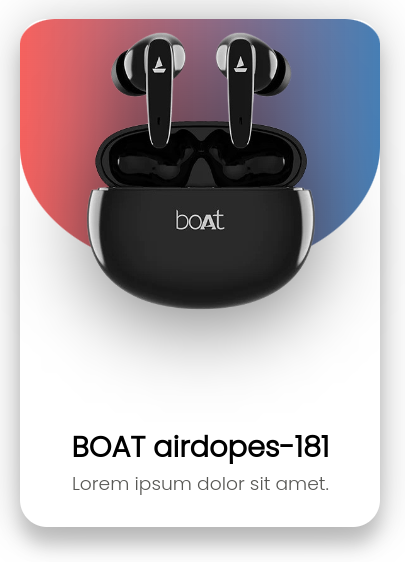
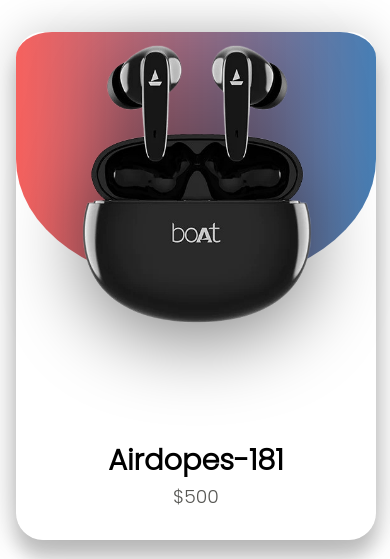
final

Changed region(s): [[0.0308, 0.0304, 0.9846, 1.0]]

diff --git a/index.html b/index.html
@@ -4,8 +4,8 @@
     <meta charset="UTF-8" />
     <meta http-equiv="X-UA-Compatible" content="IE=edge" />
     <meta name="viewport" content="width=device-width, initial-scale=1.0" />
+    <meta name="description" content="3-d card effect using plain vanilla js and tilt js">
     <link rel="stylesheet" href="style.css" />
-    <!-- <link rel="stylesheet" href="modal.css"> -->
     <link
       rel="stylesheet"
       href="https://cdnjs.cloudflare.com/ajax/libs/font-awesome/4.7.0/css/font-awesome.min.css"
@@ -14,7 +14,7 @@
     <script src="effect.js" defer></script>
     <script src="vanilla-tilt.js" defer></script>
 
-    <title>tutwebsite</title>
+    <title>card-list</title>
     <link
       rel="stylesheet"
       href="https://cdnjs.cloudflare.com/ajax/libs/font-awesome/4.7.0/css/font-awesome.min.css"
@@ -33,7 +33,7 @@
         class="image interactable"
         data-type="link"
         src="images/1.png"
-        onclick="openModal('images/airdopes-181-removebg.png')"
+        onclick="openModal('images/airdopes-181-removebg.png','Airdopes-181','$500')"
         alt="img"
         draggable="false"
         data-tilt
@@ -46,7 +46,7 @@
         class="image interactable"
         data-type="video"
         src="images/2.png"
-        onclick="openModal('images/rockerz-235-V2-removebg-preview.png')"
+        onclick="openModal('images/rockerz-235-V2-removebg-preview.png','Rockerz-235-V2','$150')"
         alt="img"
         data-tilt
         data-tilt-scale="1.1"
@@ -58,7 +58,7 @@
         class="image interactable"
         data-type="link"
         src="images/3.png"
-        onclick="openModal('images/rockerz-410-black_1500x-removebg-preview.png')"
+        onclick="openModal('images/rockerz-558-removebg-preview.png','Rockerz-558','$300')"
         alt="img"
         data-tilt
         data-tilt-scale="1.1"
@@ -70,7 +70,7 @@
         class="image interactable"
         data-type="video"
         src="images/4.png"
-        onclick="openModal('images/rockerz-410-black_1500x-removebg-preview.png')"
+        onclick="openModal('images/rockerz-410-black_1500x-removebg-preview.png','Rockerz-410-black','$300')"
         alt="img"
         data-tilt
         data-tilt-scale="1.1"
@@ -82,7 +82,7 @@
         class="image interactable"
         data-type="video"
         src="images/5.png"
-        onclick="openModal('images/rockerz-558-batman-edition__1_-removebg-preview.png')"
+        onclick="openModal('images/rockerz-558-batman-edition__1_-removebg-preview.png','ROckerz-55-batman-edition','$600')"
         alt="img"
         data-tilt
         data-tilt-scale="1.1"
@@ -93,8 +93,8 @@
       <img
         class="image interactable"
         data-type="link"
-        src="images/1.png"
-        onclick="openModal('images/airdopes-181-removebg.png')"
+        src="images/6.png"
+        onclick="openModal('images/rockerz-245-removebg-preview.png','Rockerz-245','$100')"
         alt="img"
         data-tilt
         data-tilt-scale="1.1"
@@ -105,8 +105,8 @@
       <img
         class="image interactable"
         data-type="video"
-        src="images/4.png"
-        onclick="openModal('images/airdopes-181-removebg.png')"
+        src="images/7.png"
+        onclick="openModal('images/rockerz-510-removebg-preview.png','Rockerz-510','$375')"
         alt="img"
         data-tilt
         data-tilt-scale="1.1"
@@ -117,7 +117,7 @@
     </div>
 
     <div id="trailer">
-      <i id="trailer-icon" class="" />
+      <i id="trailer-icon" class="" >
     </div>
   </body>
 </html>

diff --git a/effect.js b/effect.js
@@ -2,6 +2,8 @@ const card = document.querySelector('.card');
 const container = document.querySelector('.container');
 const info = document.querySelector('.info')
 const img = document.querySelector('.headphone')
+const title= document.querySelector('.title')
+const cost = document.querySelector('.cost')
 
 container.addEventListener('mousemove',(e)=>{
     let xAxis= (window.innerWidth/2 - e.pageX)/15;
@@ -26,7 +28,11 @@ container.addEventListener('mouseleave',(e)=>{
 const queryString = window.location.search;
 const urlParams = new URLSearchParams(queryString);
 const imageUrl = urlParams.get('imageUrl');
+const name = urlParams.get('name');
+const cos= urlParams.get('cost')
 
 // Display the clicked image on the page
 const displayedImage = document.getElementById('displayed-image');
 displayedImage.src = imageUrl;
+title.textContent= name;
+cost.textContent= cos;

diff --git a/card.html b/card.html
@@ -6,7 +6,7 @@
     <title>3-d effect</title>
     <link rel="stylesheet" href="<link rel="preconnect" href="https://fonts.googleapis.com">
     <link rel="preconnect" href="https://fonts.gstatic.com" crossorigin>
-    <link href="https://fonts.googleapis.com/css2?family=Poppins:wght@300&display=swap" rel="stylesheet">">
+    <link href="https://fonts.googleapis.com/css2?family=Poppins:wght@300&display=swap" rel="stylesheet">
     <link rel="stylesheet" href="style2.css">
 </head>
 <body>
@@ -23,10 +23,12 @@
                 </div>     
             </div>
             <div class="info">
-                <h1>
-                    BOAT airdopes-181
+                <h1 class="title">
+
                 </h1>
-                <h3>Lorem ipsum dolor sit amet.</h3>
+                <h3 class="cost">
+
+                </h3>
             </div> 
     </div>
 

diff --git a/index.js b/index.js
@@ -76,8 +76,8 @@ window.addEventListener("mousemove", (e) =>{
 
 });
 
-function openModal(imageUrl) {
-  window.location.href = `card.html?imageUrl=${encodeURIComponent(imageUrl)}`;
+function openModal(imageUrl,name,cost) {
+  window.location.href = `card.html?imageUrl=${encodeURIComponent(imageUrl)}&name=${name}&cost=${cost}`;
 }
 
 
